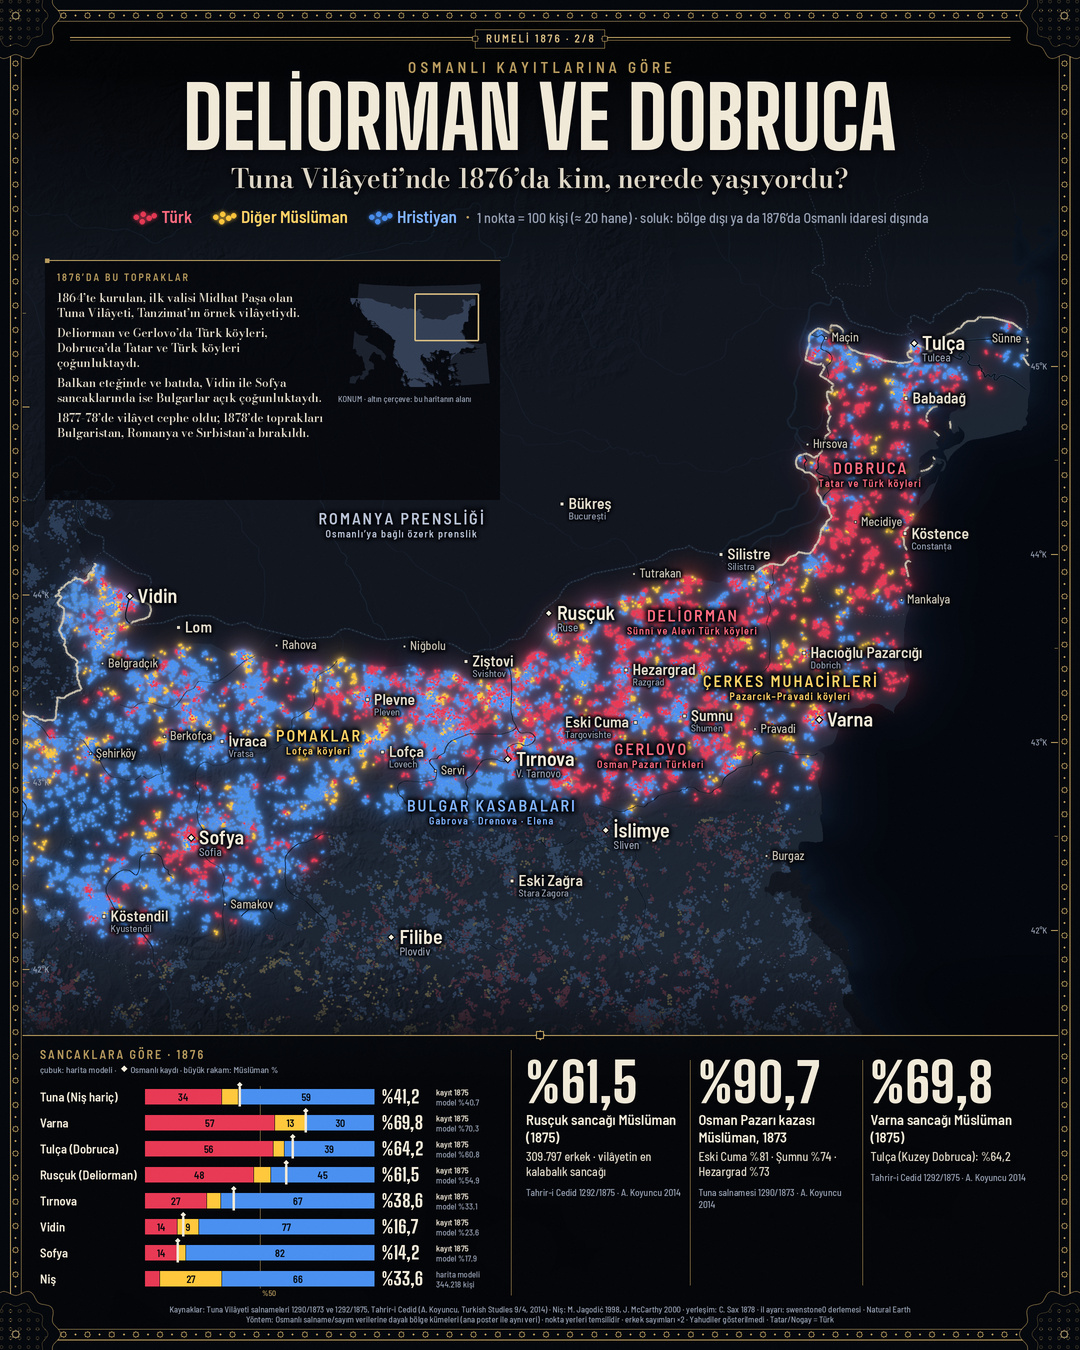
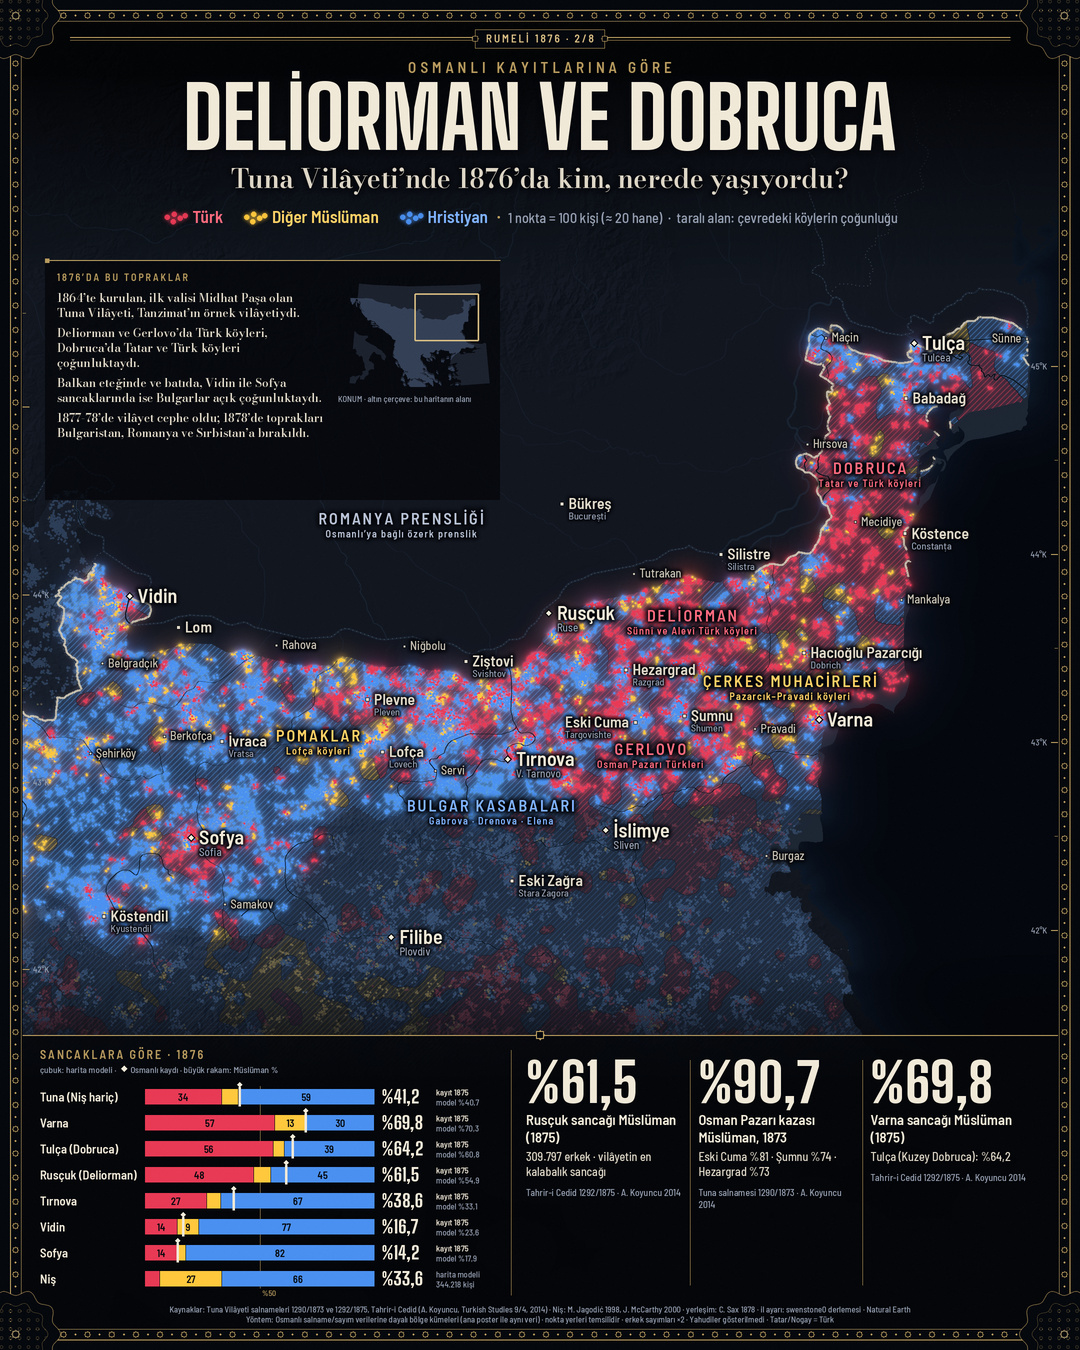
Rumeli 1876: boş alanları çevredeki çoğunluğun taramasıyla doldurma + Rumeli Türkleri haritaları altyapısı
areal_fill: her kara pikseli çevresindeki yerleşimlerin çoğunluk grubunu
alır (etnografya haritası yöntemi, tüm gruplar için aynı kural); grup
renginde çapraz tarama. Dört yeni Türk yoğun bölge çerçevesi (Doğu
Rodoplar, Deliorman–Dobruca, Makedonya, Edirne–Doğu Trakya).

Claude-Session: https://claude.ai/code/session_01YHSXRFYFBT4vTCT2SiySAf

Changed region(s): [[0.0, 0.2489, 0.8556, 0.7467], [0.1222, 0.1556, 0.8556, 0.1867], [0.8861, 0.2178, 0.9472, 0.3111]]

diff --git a/haritalar/balkanlar_1876/seri.py b/haritalar/balkanlar_1876/seri.py
@@ -93,6 +93,80 @@ def sanitize(x):
     return x
 
 
+ALL_OTT = [("Tuna", None), ("Edirne", None), ("İstanbul", None), ("Selanik", None), ("Manastır", None),
+           ("Prizren", None), ("Yanya", None), ("İşkodra", None), ("Bosna", None), ("Hersek", None)]
+TURK = dict(series="RUMELİ TÜRKLERİ 1876", total=4)
+REGIONS.update({
+    "t_rodoplar": dict(n=1, center=(25.35, 41.45), width=300, name="Doğu Rodoplar ve Batı Trakya", focus=ALL_OTT,
+                       float=(1440, 1640, 2080, 2040), **TURK),
+    "t_deliorman": dict(n=2, center=(27.4, 44.0), width=380, name="Deliorman ve Dobruca", focus=ALL_OTT,
+                        float=(90, 520, 980, 960), **TURK),
+    "t_makedonya": dict(n=3, center=(22.9, 41.1), width=380, name="Makedonya Türkleri", focus=ALL_OTT,
+                        float=(1440, 1620, 2080, 2040), **TURK),
+    "t_trakya": dict(n=4, center=(27.3, 41.35), width=330, name="Edirne ve Doğu Trakya", focus=ALL_OTT,
+                     float=(90, 1660, 1000, 2040), **TURK),
+})
+
+
+def areal_fill(F, x, y, k, area, sigma_km=6.0, step=2):
+    """Boş alanları çevredeki yerleşimlerin çoğunluk grubuyla doldurur (etnografya haritası yöntemi).
+
+    Dönüş: (H, W) int8 etiket (-1 = doldurulmaz), her grup için alan payı.
+    Kural her grup için aynıdır: etrafı Türk köyleriyle çevrili boşluk Türk, Bulgar köyleriyle çevrili boşluk
+    Hristiyan rengi alır.
+    """
+    from scipy.ndimage import gaussian_filter as gf, distance_transform_edt as edt
+    h, w = H // step, W // step
+    cnt = np.zeros((3, h, w), np.float32)
+    xi = np.clip((x / step).astype(int), 0, w - 1)
+    yi = np.clip((y / step).astype(int), 0, h - 1)
+    for g in range(3):
+        m = k == g
+        np.add.at(cnt[g], (yi[m], xi[m]), 1.0)
+    sig = sigma_km * 1000 / (F.mpp * step)
+    D = np.stack([gf(cnt[g], sig) for g in range(3)])
+    tot = D.sum(0)
+    decided = tot > (0.6 / (2 * np.pi * sig * sig))
+    lab = np.argmax(D, 0).astype(np.int8)
+    if (~decided).any() and decided.any():
+        _, (ii, jj) = edt(~decided, return_indices=True)
+        lab = lab[ii, jj]
+    # çoğunluk süzgeci: küçük adacıkları yumuşat
+    oh = np.stack([gf((lab == g).astype(np.float32), 2.0e3 / (F.mpp * step) + 1.0) for g in range(3)])
+    lab = np.argmax(oh, 0).astype(np.int8)
+    full = np.repeat(np.repeat(lab, step, 0), step, 1)[:H, :W]
+    out = np.where(area, full, -1).astype(np.int8)
+    tot_px = max(1, (out >= 0).sum())
+    shares = [100.0 * (out == g).sum() / tot_px for g in range(3)]
+    return out, shares
+
+
+def fill_layer(lab, fade, dim=None, spacing=11, lw=2.6):
+    """Taralı alan katmanı (RGBA): grup renginde çapraz çizgiler + hafif ton."""
+    Y, X = np.mgrid[0:H, 0:W]
+    v = (X + Y) % spacing
+    hatch = np.clip(lw / 2 + 0.5 - np.abs(v - spacing / 2), 0, 1).astype(np.float32)
+    lay = np.zeros((H, W, 4), np.float32)
+    for g in range(3):
+        m = lab == g
+        if not m.any():
+            continue
+        col = np.array(hx(COL[g])[:3], np.float32)
+        lay[m, :3] = col
+        lay[m, 3] = 0.20 + 0.55 * hatch[m]
+    # grup sınırlarında ince koyu çizgi
+    edge = np.zeros((H, W), bool)
+    edge[:, 1:] |= (lab[:, 1:] != lab[:, :-1]) & (lab[:, 1:] >= 0) & (lab[:, :-1] >= 0)
+    edge[1:, :] |= (lab[1:, :] != lab[:-1, :]) & (lab[1:, :] >= 0) & (lab[:-1, :] >= 0)
+    lay[edge, :3] = (8, 10, 16)
+    lay[edge, 3] = 0.55
+    a = lay[..., 3] * np.clip(fade[:, 0], 0, 1)[:, None]
+    if dim is not None:
+        a = np.where(dim, a * 0.4, a)
+    lay[..., 3] = a
+    return Image.fromarray(np.clip(lay * [1, 1, 1, 255], 0, 255).astype(np.uint8), "RGBA")
+
+
 def in_focus(c, focus):
     for vil, sans in focus:
         if c.get("vilayet") == vil and (sans is None or (c.get("sancak") or "") in sans):
@@ -284,6 +358,24 @@ def render_region(key, cfg, out_dir, ppd=100):
     basef = P.base_image(F, elev, landm, regm, ott1) * (0.22 + 0.78 * fade[..., None])
     base = Image.fromarray(np.clip(basef * 255, 0, 255).astype(np.uint8)).convert("RGBA")
     base.alpha_composite(P.draw_rivers(F, regm, fade, under=True))
+    fill_shares, fill_km2 = None, [0, 0, 0]
+    if reg.get("fill", True):
+        focus_area = np.zeros((H, W), bool)
+        fpx = np.zeros(len(cl), bool)
+        # odak alanı: odak kümelerin en yakın olduğu Osmanlı karası
+        from scipy.spatial import cKDTree
+        ccx, ccy = F.ll_to_px([c["lon"] for c in cl], [c["lat"] for c in cl])
+        tree = cKDTree(np.c_[np.asarray(ccx), np.asarray(ccy)])
+        gy_, gx_ = np.mgrid[0:H:4, 0:W:4]
+        _, nn = tree.query(np.c_[gx_.ravel(), gy_.ravel()])
+        fz_ = foc[nn].reshape(gy_.shape)
+        focus_area = np.repeat(np.repeat(fz_, 4, 0), 4, 1)[:H, :W] & ott1
+        lab, _ = areal_fill(F, x, y, k, ott1 & landm)
+        fl_ = (lab >= 0) & focus_area
+        fill_shares = [100.0 * ((lab == g) & fl_).sum() / max(1, fl_.sum()) for g in range(3)]
+        fill_km2 = [((lab == g) & fl_).sum() * (F.mpp / 1000) ** 2 for g in range(3)]
+        base.alpha_composite(fill_layer(lab, fade, dim=~focus_area))
+        log(f"[{key}] alan payları (odak): Türk %{fill_shares[0]:.1f} · d.Müs %{fill_shares[1]:.1f} · Hr %{fill_shares[2]:.1f}")
     base.alpha_composite(P.dotted_borders(F, fade))
     img = P.render_dots(np.asarray(base.convert("RGB"), np.float32) / 255, x, y, k, inside,
                         radius=1.9, fade_y0=1990, fade_y1=2110, alpha_out=0.30)
@@ -313,7 +405,7 @@ def render_region(key, cfg, out_dir, ppd=100):
     d.line((140, 80, W / 2 - 36, 80), fill=BRASS[:3] + (115,), width=1)
     d.line((W / 2 + 30, 80, W - 140, 80), fill=BRASS[:3] + (115,), width=1)
     kicker = cfg.get("kicker") or "OSMANLI KAYITLARINA GÖRE · 93 HARBİ ARİFESİ"
-    kicker = kicker.replace(f"RUMELİ 1876 · {reg['n']}/{TOTAL} · ", "").replace(f"RUMELİ 1876 · {reg['n']}/{TOTAL}", "").strip(" ·")
+    kicker = re.sub(r"RUMELİ (TÜRKLERİ )?1876\s*·\s*\d+/\d+\s*·?\s*", "", kicker).strip(" ·") or "OSMANLI KAYITLARINA GÖRE · 93 HARBİ ARİFESİ"
     cv.tracked((W / 2, 146), P.tr_upper(kicker), bar(30, "SemiBold"), 8, BRASS, anchor="c")
     title = P.tr_upper(cfg.get("title") or reg["name"])
     ts = 170
@@ -327,7 +419,7 @@ def render_region(key, cfg, out_dir, ppd=100):
     cv.halo((W / 2, 376), sub, bod(ss, 600, 11), IV2, anchor="ms", rad=6, strength=0.6)
     items = [(0, "Türk"), (1, "Diğer Müslüman"), (2, "Hristiyan")]
     f1, f2 = bar(34, "SemiBold"), bar(28, "Medium")
-    unit = f"1 nokta = {ppd} kişi (≈ {ppd // 5} hane) · soluk: bölge dışı ya da 1876’da Osmanlı idaresi dışında"
+    unit = f"1 nokta = {ppd} kişi (≈ {ppd // 5} hane)" + ("  ·  taralı alan: çevredeki köylerin çoğunluğu" if reg.get("fill", True) else " · soluk: bölge dışı ya da 1876’da Osmanlı idaresi dışında")
     tot = sum(62 + f1.getlength(t) + 40 for _, t in items) + 26 + f2.getlength(unit)
     xx = W / 2 - tot / 2
     yb = 446
@@ -470,6 +562,13 @@ def render_region(key, cfg, out_dir, ppd=100):
             yy += lh
         else:
             yy += 10
+    if fill_shares is not None and reg.get("series"):
+        yy += 6
+        d.line((x0f + 24, yy - 18, x0f + 24 + 120, yy - 18), fill=BRASS[:3] + (120,), width=1)
+        st_ = f"Taralı alanın {fmt_pct(fill_shares[0])}’i Türk çoğunluklu"
+        d.text((x0f + 24, yy + 12), st_, font=bar(26, "SemiBold"), fill=TINT[0], anchor="ls")
+        d.text((x0f + 24, yy + 40), f"≈ {fmt_int(round(fill_km2[0], -1))} km² · Osmanlı toprağı, harita modeli", font=bar(18, "Medium"), fill=MUTE, anchor="ls")
+        yy += 50
     if show_loc:
         if sep_loc:
             lb = sep_loc
@@ -486,7 +585,7 @@ def render_region(key, cfg, out_dir, ppd=100):
 
     P.lat_ticks(cv, F)
     P.frame_ornament(cv)
-    P.series_tag(cv, f"{reg['n']}/{TOTAL}")
+    P.series_tag(cv, f"{reg['n']}/{reg.get('total', TOTAL)}", prefix=reg.get("series", "RUMELİ 1876"))
     d = cv.d
     src = cfg.get("sources_line") or ""
     l2 = ("Yöntem: Osmanlı salname/sayım verilerine dayalı bölge kümeleri (ana poster ile aynı veri) · nokta yerleri temsilîdir · "

diff --git a/haritalar/balkanlar_1876/poster.py b/haritalar/balkanlar_1876/poster.py
@@ -737,10 +737,10 @@ def place_cities(cv, F, ottm1, tiers=None):
             cv.occupy((x - r - 2, y - r - 2, x + r + 2, y + r + 2))
 
 
-def series_tag(cv, text):
-    """Sağ üst köşede seri etiketi: RUMELİ 1876 · n/8"""
+def series_tag(cv, text, prefix="RUMELİ 1876"):
+    """Üst cetvelin ortasında seri etiketi: RUMELİ 1876 · n/8"""
     d = cv.d
-    t = "RUMELİ 1876 · " + text
+    t = prefix + " · " + text
     f = bar(22, "SemiBold")
     w = cv.tracked_w(t, f, 4)
     x0, x1, y0, y1 = W / 2 - w / 2 - 22, W / 2 + w / 2 + 22, 59, 96
@@ -757,6 +757,7 @@ def main():
     ap.add_argument("--out", default=os.path.join(HERE, "cikti", "rumeli_1876"))
     ap.add_argument("--ppd", type=int, default=250, help="nokta başına kişi")
     ap.add_argument("--seri", default="", help="ör. '1/8' — sağ üstte seri etiketi")
+    ap.add_argument("--doldur", action="store_true", help="boşlukları çevredeki çoğunluğun taramasıyla doldur")
     a = ap.parse_args()
     os.makedirs(os.path.dirname(a.out), exist_ok=True)
 
@@ -803,6 +804,11 @@ def main():
     cvb = Canvas(base)
     # hayalet vilayet adları (noktaların altında)
     base.alpha_composite(draw_rivers(F, regm, fade, under=True))
+    if a.doldur:
+        import seri as S_
+        lab, sh = S_.areal_fill(F, x, y, k, ott1 & landm, sigma_km=9.0)
+        base.alpha_composite(S_.fill_layer(lab, fade, spacing=9, lw=2.2))
+        log(f"alan payları: Türk %{sh[0]:.1f} · d.Müs %{sh[1]:.1f} · Hr %{sh[2]:.1f}")
     base.alpha_composite(dotted_borders(F, fade))
     log("altlık")
 
@@ -999,7 +1005,7 @@ def main():
     # lejant satırı
     items = [(0, "Türk"), (1, "Diğer Müslüman"), (2, "Hristiyan")]
     f1, f2 = bar(38, "SemiBold"), bar(32, "Medium")
-    unit = "1 nokta = 250 kişi (≈ 50 hane)"
+    unit = "1 nokta = 250 kişi (≈ 50 hane)" + ("  ·  taralı alan: çevredeki köylerin çoğunluğu" if a.doldur else "")
     tot = sum(70 + f1.getlength(t) + 44 for _, t in items) + 30 + f2.getlength(unit)
     xx = W / 2 - tot / 2
     yb = 506
